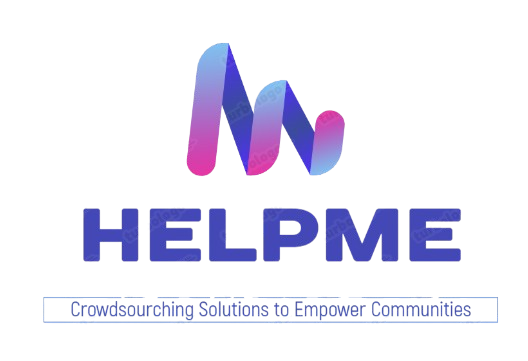
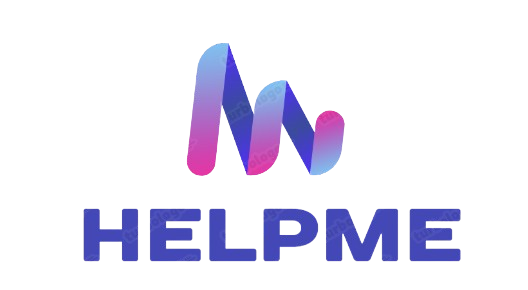
new

Changed region(s): [[0.0606, 0.0931, 0.9394, 0.9]]

diff --git a/index.html b/index.html
@@ -4,9 +4,20 @@
     <meta charset="UTF-8">
     <meta http-equiv="X-UA-Compatible" content="IE=edge">
     <meta name="viewport" content="width=1000px, initial-scale=1.0">
-    <title>Document</title>
+    <link rel="stylesheet" href="style.css">
+    <title>HELP-Crowdsourching Solutions to Empower Communities</title>
 </head>
 <body>
-    
+
+    <!-- BG Image -->
+    <img height="1000px" width="1630px" src="backg2.jpg" alt="">
+
+    <!-- logo -->
+    <nav>
+<Div>
+    <img height="100px";width=100px; src="Screenshot_2024-10-22_154148-removebg-preview (1).png" alt="">
+</Div>
+    </nav>
+
 </body>
 </html>
